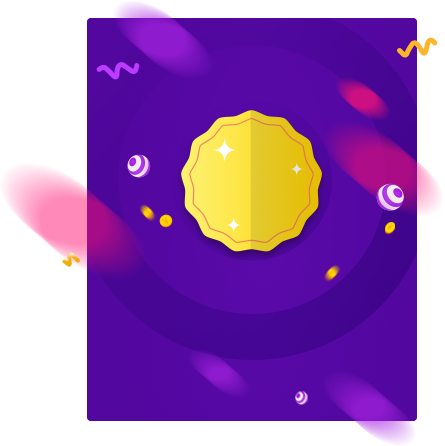
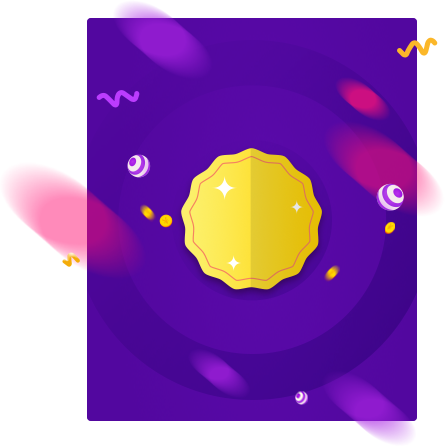
badge,unlocksecondpw

Changed region(s): [[0.409, 0.2332, 0.7303, 0.6704], [0.2045, 0.204, 0.3213, 0.2623], [0.2045, 0.1166, 0.3213, 0.1749]]

diff --git a/src/components/index.vue b/src/components/index.vue
@@ -297,9 +297,9 @@
 
     <MessageDetail :messageDialog="messageDialog" :messageDetail="messageDetail" @close="closeMessage"></MessageDetail>
     <SetLockPwd :setLockPwdDialog="setLockPwdDialog" @close="closeMessage"></SetLockPwd>
-    <UnlockSecondPW :unlockSecondPWDialog="unlockSecondPWDialog" :sendId="sendId" @close="closeMessage"></UnlockSecondPW>
+    <UnlockSecondPW :unlockSecondPWDialog="unlockSecondPWDialog" @unlockFlag="unlockFlag" :sendId="sendId" @close="closeMessagex"></UnlockSecondPW>
 	  <Instruction :instructionDialog="instructionDialog" @close="closeModal"></Instruction>
-
+<BadgeView :badgeDialog="badgeDialog" @close="closebadgeDialog"></BadgeView>
   </div>
 </template>
 
@@ -313,7 +313,7 @@
   import BadgeView from './common/badge.vue'
   export default {
     name: 'Index',
-    components: {TagsView, MessageDetail,Instruction,SetLockPwd,UnlockSecondPW},
+    components: {TagsView, MessageDetail,Instruction,SetLockPwd,UnlockSecondPW,BadgeView},
     data() {
       return {
         personal: {},
@@ -340,6 +340,7 @@
         unlockSecondPWDialog:false,
         sendId:"",
 	      badgeDialog:false, //徽章模态框
+unlockFlagpart:false,
       }
     },
 
@@ -425,6 +426,9 @@
           this.setLockPwdDialog = true;
         }
         this.personal = JSON.parse(localStorage.personal);
+        if(!this.personal.data.medal){
+          this.badgeDialog = true;
+        }	
         this.loginDay = this.personal.data.loginday;
         this.loginPercent = Number(this.loginDay / 180 * 100) + '%';
         $('.percent').css('width', this.loginPercent);
@@ -467,8 +471,17 @@
       closeMessage(){
         this.messageDialog = false;
         this.setLockPwdDialog = false;
+      },
+      closeMessagex(){
         this.unlockSecondPWDialog = false;
       },
+      unlockFlag(val){
+        this.unlockFlagpart=val;
+        if(!this.unlockFlagpart){
+          this.defaultArray=[];
+        }
+       },
+
       //获取未读消息
       getUnReadMessage(){
         this.$http.get(globalConfig.server_user + 'messages?unread=1').then((res) => {
@@ -500,25 +513,27 @@
         screenFull.toggle();
       },
       handleOpen(key, keyPath) {
+if(!this.unlockFlagpart){
         for(let chi in this.chinese){
           if(this.chinese[chi].name == key){
             this.unlockSecondPWDialog = true;
             this.sendId=this.chinese[chi].id;
           }
-        }
+        }}
       },
       handleClose(key, keyPath) {
 
       },
       handlerSelect(key, keyPath){
 
+if(!this.unlockFlagpart){
         for(let chi in this.chinese){
           for(let path in keyPath){
           if(this.chinese[chi].name == keyPath[0]){
             this.unlockSecondPWDialog = true;
             this.sendId=this.chinese[chi].id;
           }
-          }
+          }}
         }
       },
       clickScreen() {

diff --git a/src/components/common/badge.vue b/src/components/common/badge.vue
@@ -1,6 +1,6 @@
 <template>
   <div >
-    <div class="badgeup" >
+    <div class="badgeup" v-show="panelShow">
       <div v-if="loginDay == 3" class="backdiv backdiv3"></div>
       <div v-else-if="loginDay == 5" class="backdiv backdiv5"></div>
       <div v-else-if="loginDay == 15" class="backdiv backdiv15"></div>
@@ -25,12 +25,42 @@ export default {
   data() {
     return {
       landholder: {},
-      loginDay: 0 //连续登陆天数
+      panelShow: false,
+      loginDay: 0, //连续登陆天数
+      badgeDialogVisible: false,
+      type:3
     };
+  },
+  watch: {
+    badgeDialog(val) {
+      this.panelShow = val;
+    },
+    panelShow(val) {
+      if (!val) {
+        this.$emit("close");
+      }
+    }
   },
   mounted() {
     this.landholder = JSON.parse(localStorage.personal);
     this.loginDay = this.landholder.data.loginday;
+    setTimeout(() => {
+      this.closeBadge();
+    }, 5000);
+  },
+  methods:{
+    closeBadge(){
+        this.$http.post(globalConfig.server + 'manager/staff_record', {type: this.type}).then((res) => {
+          if (res.data.code === '30010') {
+            this.panelShow= false;
+          this.$http.get(globalConfig.server + "special/special/loginInfo").then((res) => {
+            localStorage.setItem('personal', JSON.stringify(res.data.data));
+            globalConfig.personal = res.data.data.data;
+          });
+          }
+        })
+        
+    }
   }
 };
 </script>

diff --git a/src/components/common/unlocksecondpw.vue b/src/components/common/unlocksecondpw.vue
@@ -29,6 +29,7 @@ export default {
   data() {
     return {
       unlockSecondPWDialogVisible: false,
+      unlockFlag:false,
       basicSetting: {
         dict_id: "",
         pwd: ""
@@ -48,13 +49,12 @@ export default {
     unlockSecondPWDialogVisible(val) {
       if (!val) {
         this.$emit("close");
-        this.basicSetting = {
-          dict_id: "",
-          pwd: ""
-        };
+        this.$emit("unlockFlag",this.unlockFlag);
+        this.basicSetting.pwd=""
       }
     },
     sendId(val) {
+      console.log(val)
       this.basicSetting.dict_id = val;
     }
   },
@@ -68,11 +68,13 @@ export default {
         .then(res => {
           if (res.data.code === "1000100") {
             this.unlockSecondPWDialogVisible = false;
+            this.unlockFlag = true;
             this.basicSetting = {
               dict_id: "",
               pwd: ""
             };
           } else {
+            this.unlockFlag = false;
             this.$notify({
               title: "警告",
               message: res.data.msg,

diff --git a/src/components/common/setLockPwd.vue b/src/components/common/setLockPwd.vue
@@ -95,10 +95,7 @@
       }
     },
     mounted(){
-      if (JSON.parse(localStorage.personal).data.setting.length > 0) {
-        this.basicSetting.id[0] = Number(JSON.parse(localStorage.personal).data.setting[0].dict_id);
-        this.defaultCountdown = Number(JSON.parse(localStorage.personal).data.setting[0].dict_id)
-      }
+
     },
     watch: {
       setLockPwdDialog(val) {
